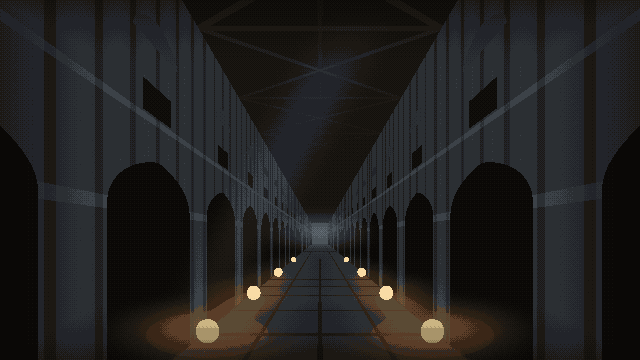
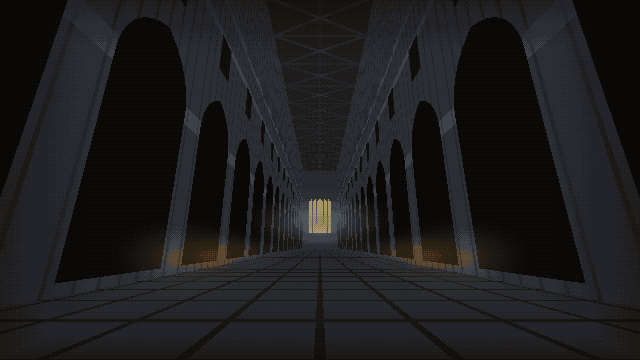
feat(art): match the reference camera 1:1 -- a real pitched ultra-wide (TD-072)
The angle was the gap, and it was not a tuning problem: my projection was strict
ONE-point, so verticals stayed vertical and the hall read as a corridor. The
reference is THREE-point -- the camera is tilted up, so the piers converge toward
the top of frame. That convergence is what makes the space soar.

Recovered the camera by measuring the reference rather than guessing: its nave
axis vanishes at ~0.68 of frame height, i.e. BELOW centre, which only happens
under an upward pitch. Solving for our 16:9 gives hfov ~105 degrees (a ~14mm
equivalent) at ~15 degrees of pitch.

Replaced the ad-hoc surface classifier with an actual camera: per-pixel ray
against the hall's planes (floor / vault / side walls / apse), in METRES at
Chartres' proportions -- 16m wide, 37m to the vault, 7m bays, eye at 1.5m. The
storeys now sit where a real elevation puts them and the perspective follows for
free. The model also predicts the reference's composition: near piers fill the
sides and top corners, and the vault only enters frame from ~28m in.

Also fixed a unit bug the rebuild exposed: inverse depth was being used directly
as a frame fraction, so a 5m light pool drew 50px wide. World size at depth needs
dividing by the FOV term.

Three reverts recorded so they are not retried: the drawn flame is GONE for good
(box, cone, ball, box again -- at a few px it reads as whatever shape you give
it, so the pool of light on the flags carries it, as the board's sconces do);
[…]

diff --git a/client/assets/ui/gen_nave.py b/client/assets/ui/gen_nave.py
@@ -16,9 +16,15 @@ image — a title screen showing an Incarnate would leak the mystery the whole g
 (Pillar 3), and combat imagery would advertise the failure state. The reference's chairs are
 not reproduced: they clutter the frame and date the space.
 
-Geometry is a real one-point projection, not a painted fake: every pixel is ray-cast from the
-vanishing point onto floor / vault / side wall, carrying a depth `z` and a surface coordinate,
-so bays, ribs and flags all converge from the same arithmetic.
+Geometry is a real CAMERA, not a painted fake: an ultra-wide lens (hfov 105°, a ~14mm
+equivalent) at floor height, tilted UP 15°, ray-cast per pixel against the hall's planes. The
+tilt is the point — it makes verticals CONVERGE toward the top of frame (three-point
+perspective), which is what turns a corridor into a soaring space. The camera was recovered
+from the reference by measuring where its nave axis vanishes: at ≈0.68 of frame height, i.e.
+BELOW centre, which only happens when the camera is pitched up.
+
+Everything is in metres, at Chartres' proportions (16m wide, 37m to the vault), so the
+storeys sit where a real elevation puts them and the perspective follows for free.
 
 Run from client/assets/ui/:  python3 gen_nave.py  ->  title/nave.png
 """
@@ -29,87 +35,124 @@ import ashember as A
 
 W, H = 640, 360
 
-# ── The camera (R238) ────────────────────────────────────────────────────────
-# The vanishing point sits LOW, so the viewer looks UP the vault and it owns the frame's
-# upper half. At eye level the same geometry is merely a corridor.
-VPX, VPY = 0.5, 0.66
-HALF_W = 0.235            # hall half-width at the near plane
-UP = 0.72                 # vault height above the vanishing line, at the near plane
-DOWN = 0.34               # floor depth below it
-# Height/width ≈ 2.3 : tall and narrow, which is what makes stone read as drawn upward.
+# ── The camera, recovered from the reference (R238) ──────────────────────────
+HFOV = math.radians(105.0)        # ultra-wide: near piers fill the frame's sides and corners
+PITCH = math.radians(15.0)        # tilted UP — this is what converges the verticals
+EYE_Y = 1.5                       # standing on the flags, not floating
+TAN_H = math.tan(HFOV * 0.5)
+TAN_V = TAN_H / (W / H)
+SINP, COSP = math.sin(PITCH), math.cos(PITCH)
 
-BAY = 0.62                # bay length in half-widths — the arcade's rhythm
-K_LANCET = 0.55           # two-centred arch: a lancet, not a wide Tudor arch
+# ── The hall, in metres (Chartres' proportions) ──────────────────────────────
+HALF_W = 8.0                      # 16m across the nave
+VAULT_Y = 37.0                    # …and 37m to the vault: a height/width of 2.3
+Z_FAR = 115.0                     # the apse closes the view
+BAY = 7.0                         # bay length — the arcade's rhythm
 
-H_FLOOR = DOWN / HALF_W           # wall height coordinate at the floor  (+1.45)
-H_VAULT = -UP / HALF_W            # …and at the vault springing          (-3.06)
+# ── The three storeys, in metres up the wall ─────────────────────────────────
+ARC_SPRING, ARC_HALF = 9.0, 2.55        # main arcade (apex ≈ 12.7m)
+TRI_LO, TRI_HI, TRI_HALF = 15.2, 18.4, 0.95   # triforium band
+CLR_SPRING, CLR_HALF = 22.0, 2.10       # clerestory, the glazed storey (apex ≈ 25.0m)
+PIER_HALF = 1.75                        # half the solid pier between openings
 
+K_LANCET = 0.55                   # two-centred arch: a lancet, not a wide Tudor arch
 BLACK = (7, 6, 8)
 
 
 def lancet(dp, half, springing):
-    """Head height of a two-centred pointed arch at |dp| from the opening's centre.
+    """Apex height of a two-centred pointed arch at |dp| from the opening's centre, in metres.
 
-    Each half is an arc struck from the OPPOSITE springing point, so the two meet at an apex
-    instead of closing as a semicircle. Height is negative-upward, like `h` below.
+    Each half is an arc struck from the OPPOSITE springing point, so the two meet at a point
+    instead of closing as a semicircle.
     """
     r = half * (1.0 + K_LANCET)
     dx = dp + half * K_LANCET
-    return springing - math.sqrt(max(0.0, r * r - dx * dx))
+    return springing + math.sqrt(max(0.0, r * r - dx * dx))
 
 
-# ── The three storeys, in wall-height units (negative is up) ─────────────────
-ARC_SPRING, ARC_HALF = -0.30, 0.36              # main arcade
-TRI_LO, TRI_HI, TRI_HALF = -1.30, -1.62, 0.13   # triforium band
-CLR_SPRING, CLR_HALF = -2.05, 0.20              # clerestory (the glazed storey)
-
-# ── Fire (R236). Braziers stand in the aisles at bay intervals: the KEY light. ──
-BRAZIERS = [(side * 0.86, z) for z in (1.15, 1.95, 3.1, 4.9) for side in (-1, 1)]
+def ray(fx, fy):
+    """World-space direction for a pixel, through the pitched ultra-wide camera."""
+    sx = (fx - 0.5) * 2.0 * TAN_H
+    sy = (0.5 - fy) * 2.0 * TAN_V
+    return (sx, sy * COSP + SINP, -sy * SINP + COSP)
 
 
-def _braziers_screen():
-    """Project each brazier to screen space once, with a perspective radius and intensity."""
-    out = []
-    for cross, z in BRAZIERS:
-        fx = VPX + cross * HALF_W / z
-        fy = VPY + (H_FLOOR - 0.12) * HALF_W / z
-        rad = 0.30 * HALF_W / z            # nearer flames pool wider
-        inten = min(1.0, 0.55 / (z * 0.55))
-        out.append((fx, fy, rad, inten))
-    return out
+def project(px, py, pz):
+    """World point -> (fx, fy, inv_depth), or None behind the camera. Used to place fires."""
+    ry_, rz = py - EYE_Y, pz
+    df = ry_ * SINP + rz * COSP
+    if df <= 0.05:
+        return None
+    du = ry_ * COSP - rz * SINP
+    return (0.5 + px / df / (2.0 * TAN_H), 0.5 - du / df / (2.0 * TAN_V), 1.0 / df)
 
 
-BZ = _braziers_screen()
+def hit(fx, fy):
+    """Nearest plane the pixel's ray strikes: ("floor"|"vault"|"wall"|"apse", a, b, dist).
+
+    `a` runs down the hall (metres), `b` is across the surface — cross-hall on floor/vault,
+    height up the wall on a wall.
+    """
+    dx, dy, dz = ray(fx, fy)
+    best = None
+    if dy < -1e-6:                                   # floor, y = 0
+        t = -EYE_Y / dy
+        if t > 0:
+            best = (t, "floor")
+    if dy > 1e-6:                                    # vault, y = VAULT_Y
+        t = (VAULT_Y - EYE_Y) / dy
+        if t > 0 and (best is None or t < best[0]):
+            best = (t, "vault")
+    if abs(dx) > 1e-6:                               # side walls, x = ±HALF_W
+        t = (math.copysign(HALF_W, dx)) / dx
+        if t > 0 and (best is None or t < best[0]):
+            best = (t, "wall")
+    if dz > 1e-6:                                    # the apse closes the far end
+        t = Z_FAR / dz
+        if t > 0 and (best is None or t < best[0]):
+            best = (t, "apse")
+    if best is None:
+        return ("apse", 0.0, 0.0, Z_FAR)
+    t, kind = best
+    wx, wy, wz = dx * t, EYE_Y + dy * t, dz * t
+    if kind == "floor" or kind == "vault":
+        return (kind, wz, wx, wz)
+    if kind == "wall":
+        return (kind, wz, wy, wz)
+    return (kind, wy, wx, wz)
+
+
+# ── Fire (R236). Braziers stand along the aisles: the KEY light. ─────────────
+BRAZIERS = [(side * (HALF_W - 1.1), 0.9, z)
+            for z in (13.0, 20.0, 30.0, 45.0, 66.0) for side in (-1, 1)]
+BZ = [(pr[0], pr[1], pr[2]) for pr in
+      (project(bx, by, bz) for bx, by, bz in BRAZIERS) if pr is not None]
 
 
 def _firelight(fx, fy):
-    """Summed warm falloff from every brazier. This is the image's key light."""
+    """Summed warm falloff from every brazier — the image's key light."""
     tot = 0.0
-    for bx, by, rad, inten in BZ:
-        dx = (fx - bx) / (rad * 3.2)
-        dy = (fy - by) / (rad * 2.1)       # pools wider than tall: light lying on flags
-        d2 = dx * dx + dy * dy
+    for bx, by, inv in BZ:
+        rx_ = 4.0 * inv / (2.0 * TAN_H)                  # a real 4m pool, in perspective
+        ry_ = 2.2 * inv / (2.0 * TAN_V)                  # pools wider than tall on the flags
+        dxs = (fx - bx) / max(rx_, 1e-5)
+        dys = (fy - by) / max(ry_, 1e-5)
+        d2 = dxs * dxs + dys * dys
         if d2 < 1.0:
-            tot += inten * (1.0 - d2) ** 2
-    return min(1.35, tot)
+            tot += min(0.85, inv * 6.0) * (1.0 - d2) ** 2
+    return min(1.4, tot)
 
 
-def _farglow(fx, fy):
-    """The hall's far end. Depth reads as LUMINANCE (TD-072): the near is darkest and the
-    distance opens into light, so near piers fall to silhouette against it."""
-    dx = (fx - VPX) / 0.115
-    dy = (fy - VPY + 0.015) / 0.085
-    return max(0.0, 1.0 - A.smooth(0.0, 1.0, math.sqrt(dx * dx + dy * dy))) ** 1.5
-
-
-def _shaft(fx, fy):
-    """The cold counterpoint (TD-043) — a pale shaft through a high clerestory lancet. Dimmer
-    than the fire and no longer the source of the image."""
-    cx = 0.335 + 0.30 * (0.80 - fy)
-    d = abs(fx - cx) / 0.085
-    if d >= 1.0:
+def _apseglow(fx, fy):
+    """The lit east end. Depth reads as LUMINANCE: the near is darkest and the distance opens
+    into light, so the near piers fall to silhouette against it."""
+    pr = project(0.0, 12.0, Z_FAR - 2.0)
+    if pr is None:
         return 0.0
-    return (1.0 - d * d) ** 2.4 * A.smooth(0.0, 0.26, fy) * (1.0 - 0.6 * A.smooth(0.5, 0.95, fy))
+    ax, ay, _ = pr
+    dxs = (fx - ax) / 0.135
+    dys = (fy - ay) / 0.105
+    return max(0.0, 1.0 - A.smooth(0.0, 1.0, math.sqrt(dxs * dxs + dys * dys))) ** 1.4
 
 
 _DITHER = ((0, 8, 2, 10), (12, 4, 14, 6), (3, 11, 1, 9), (15, 7, 13, 5))
@@ -123,105 +166,79 @@ def _dither(base, x, y):
 
 def nave_px(x, y):
     fx, fy = (x + 0.5) / W, (y + 0.5) / H
-    u, v = fx - VPX, fy - VPY
-    rx = abs(u) / HALF_W
-    ry = (v / DOWN) if v >= 0 else (-v / UP)
+    kind, a, b, dist = hit(fx, fy)
+    near = min(1.0, 14.0 / max(dist, 1.0))               # 1 close, → 0 far
 
-    if max(rx, ry) < 0.055:
-        # The far end: not a wall, an opening full of light.
-        base = A.ramp_shade("stone", 0.55)
-    elif rx >= ry:
-        # ── Side wall: compound piers and three storeys of pointed openings ──
-        au = max(abs(u), 1e-5)
-        z = HALF_W / au                             # depth
-        h = v / au                                  # wall height, negative-upward
-        p = (z / BAY) % 1.0
-        dp = abs(p - 0.5)
-        base = A.ramp_shade("stone", 0.10 + 0.16 * min(1.0, 1.4 / z))
-
-        arc_head = lancet(dp, ARC_HALF, ARC_SPRING) if dp < ARC_HALF else 0.0
-        clr_head = lancet(dp, CLR_HALF, CLR_SPRING) if dp < CLR_HALF else 0.0
-        in_arcade = dp < ARC_HALF and arc_head < h < H_FLOOR
-        in_clere = dp < CLR_HALF and clr_head < h < CLR_SPRING
-        in_trif = dp < TRI_HALF and TRI_HI < h < TRI_LO
-
-        if in_arcade:
-            # Through into the dark side aisle — the deepest value in the image.
-            base = A.lerp_rgb(BLACK, A.RAMP["stone"][0], 0.10 * min(1.0, 1.6 / z))
-        elif in_clere:
-            # Glazing. Jewelled from ramps already in hand (R235): no foreign palette.
-            mull = abs(((dp / (CLR_HALF * 0.5)) % 1.0) - 0.5)   # stone mullions divide the light
-            lit = min(1.0, 1.5 / z)
-            base = A.lerp_rgb(BLACK, A.RAMP["stone"][3], 0.30 + 0.22 * lit)
+    if kind == "apse":
+        base = A.ramp_shade("stone", 0.16)
+        light = abs(b) < 5.4 and 7.0 < a < lancet(abs(b) % 1.8, 0.9, 22.0)
+        if light:
+            mull = abs((abs(b) / 1.8) % 1.0 - 0.5)
+            base = A.lerp_rgb(A.RAMP["stone"][3], A.RAMP["parchment"][3], 0.55)
             if mull > 0.40:
-                base = A.over(base, A.RAMP["stone"][1], 0.60)
-        elif in_trif:
-            base = A.lerp_rgb(BLACK, A.RAMP["stone"][0], 0.22)
-        else:
-            # Pier face. Quantised into colonnettes, each shaded as a half-round: this is what
-            # turns a flat wall into a BUNDLE OF SHAFTS, which is the whole Gothic read.
-            shafts = 5.0
-            sp = (dp * shafts) % 1.0
-            round_ = math.sin(sp * math.pi)                 # half-cylinder across each shaft
-            base = A.over(base, A.RAMP["stone"][2], 0.34 * round_)
-            if sp < 0.10 or sp > 0.90:
-                base = A.over(base, BLACK, 0.42)            # the seam between shafts
-            # Capitals at the arcade springing, and a string-course under the clerestory.
-            if abs(h - ARC_SPRING) < 0.055 or abs(h - (TRI_LO + 0.06)) < 0.035:
-                base = A.over(base, A.RAMP["stone"][3], 0.45)
-            base = A.over(base, A.RAMP["stone"][0], 0.05 * (A.noise(x, y // 3, 7) + 8) / 16.0)
-    elif v >= 0:
-        # ── Floor: worn flags, courses across the hall, joints running away ──
-        z = DOWN / max(v, 1e-5)
-        cross = u / max(v, 1e-5) * DOWN / HALF_W
-        base = A.ramp_shade("stone", 0.07 + 0.10 * min(1.0, 1.5 / z))
-        if abs(((z / 0.42) % 1.0) - 0.5) > 0.455 or abs(((cross / 0.5) % 1.0) - 0.5) > 0.462:
-            base = A.over(base, BLACK, 0.55)
+                base = A.over(base, A.RAMP["stone"][0], 0.75)     # the stone between lights
+    elif kind == "floor":
+        base = A.ramp_shade("stone", 0.06 + 0.10 * near)
+        if abs(((a / 1.9) % 1.0) - 0.5) > 0.455 or abs(((b / 1.9) % 1.0) - 0.5) > 0.455:
+            base = A.over(base, BLACK, 0.55)             # flag joints
         else:
             base = A.over(base, A.RAMP["stone"][0], 0.05 * (A.noise(x // 2, y // 2, 11) + 8) / 16.0)
+    elif kind == "vault":
+        # Ribbed quadripartite bays: diagonals crossing at a boss, transverse ribs, sunk webs.
+        cross = b / HALF_W
+        loc = (a / BAY) % 1.0
+        base = A.ramp_shade("stone", 0.05 + 0.09 * near)
+        base = A.over(base, BLACK, 0.34)
+        rw = 0.085
+        diag = abs(abs(cross) - abs(2.0 * loc - 1.0))
+        if diag < rw or min(loc, 1.0 - loc) < rw * 0.45:
+            base = A.over(base, A.RAMP["stone"][2], 0.26)
+            if diag < rw * 0.5 and abs(loc - 0.5) < 0.10:
+                base = A.over(base, A.RAMP["stone"][3], 0.24)     # the boss
+        elif abs(cross) < rw * 0.4:
+            base = A.over(base, A.RAMP["stone"][1], 0.22)         # ridge rib
     else:
-        # ── Vault: ribbed quadripartite bays, bosses chaining away overhead ──
-        nv = max(-v, 1e-5)
-        z = UP / nv
-        cross = u / nv * UP / HALF_W                # -1..1 across the vault
-        a = (z / BAY) % 1.0
-        base = A.ramp_shade("stone", 0.05 + 0.09 * min(1.0, 1.3 / z))
-        diag = abs(abs(cross) - abs(2.0 * a - 1.0))     # the crossing diagonals
-        trans = min(a, 1.0 - a)                          # the bay division
-        ridge = abs(cross)
-        rw = 0.030 + 0.030 / max(1.0, z)                 # ribs thin with distance
-        fade = max(0.0, min(1.0, 1.9 / z - 0.55))        # ribs resolve near, then the dark takes it
-        base = A.over(base, BLACK, 0.62)                 # webs sit deep — this is a dark ceiling
-        if diag < rw or trans < rw * 0.5:
-            base = A.over(base, A.RAMP["stone"][2], 0.30 * fade)   # rib, catching a little light
-            if diag < rw * 0.5 and abs(a - 0.5) < 0.08:
-                base = A.over(base, A.RAMP["stone"][3], 0.28 * fade)   # the boss where they cross
-        elif ridge < rw * 0.35:
-            base = A.over(base, A.RAMP["stone"][1], 0.22 * fade)   # ridge rib, quiet
+        # ── Side wall: compound piers, three storeys of pointed openings ──
+        h = b                                            # metres up the wall
+        loc = (a / BAY) % 1.0
+        dp = abs(loc - 0.5) * BAY                        # metres from the bay's centre
+        base = A.ramp_shade("stone", 0.10 + 0.15 * near)
+        in_arc = dp < ARC_HALF and ARC_SPRING is not None and h < lancet(dp, ARC_HALF, ARC_SPRING)
+        in_clr = dp < CLR_HALF and CLR_SPRING < h < lancet(dp, CLR_HALF, CLR_SPRING)
+        in_tri = dp < TRI_HALF and TRI_LO < h < TRI_HI
+        if in_arc and h > 0.4:
+            base = A.lerp_rgb(BLACK, A.RAMP["stone"][0], 0.10 * near)   # into the dark aisle
+        elif in_clr:
+            mull = abs(((dp / (CLR_HALF * 0.42)) % 1.0) - 0.5)
+            base = A.lerp_rgb(BLACK, A.RAMP["stone"][3], 0.34 + 0.26 * near)
+            if mull > 0.40:
+                base = A.over(base, A.RAMP["stone"][1], 0.60)           # mullions
+        elif in_tri:
+            base = A.lerp_rgb(BLACK, A.RAMP["stone"][0], 0.24)
+        else:
+            # Pier face quantised into colonnettes, each shaded as a half-round: a flat wall
+            # becomes a BUNDLE OF SHAFTS, which is the whole Gothic read.
+            sp = (dp / 0.95) % 1.0
+            base = A.over(base, A.RAMP["stone"][2], 0.20 * math.sin(sp * math.pi))
+            if sp < 0.07 or sp > 0.93:
+                base = A.over(base, BLACK, 0.26)                         # seam between shafts
+            if abs(h - ARC_SPRING) < 0.55 or abs(h - TRI_HI) < 0.35 or abs(h - CLR_SPRING) < 0.40:
+                base = A.over(base, A.RAMP["stone"][3], 0.42)            # capitals, string-course
+            base = A.over(base, A.RAMP["stone"][0], 0.05 * (A.noise(x, y // 3, 7) + 8) / 16.0)
 
-    # ── Light. Fire is the key; the far end opens; the shaft is the cold accent. ──
+    # ── Light: fire is the key, the apse opens the distance. ──
+    glow = _apseglow(fx, fy)
+    base = A.over(base, A.lerp_rgb(A.RAMP["stone"][3], A.RAMP["parchment"][2], 0.40),
+                  min(0.66, glow * 0.66))
     fire = _firelight(fx, fy)
-    far = _farglow(fx, fy)
-    cold = _shaft(fx, fy)
-
-    base = A.over(base, A.lerp_rgb(A.RAMP["stone"][3], A.RAMP["parchment"][2], 0.35),
-                  min(0.62, far * 0.62))
-    if cold > 0.0:
-        base = A.over(base, A.RAMP["stone"][4], min(0.20, cold * 0.20))
     if fire > 0.0:
-        warm = A.RAMP["flame"][1] if fire > 0.5 else A.RAMP["gold"][2]
-        base = A.over(base, warm, min(0.72, fire * 0.55))
-    # The flames themselves, drawn last so nothing washes them out.
-    for bx, by, rad, inten in BZ:
-        dx = (fx - bx) / max(rad * 0.30, 1e-5)
-        dy = (fy - by + rad * 0.18) / max(rad * 0.55, 1e-5)
-        if dx * dx + dy * dy < 1.0:
-            base = A.FLAME_PALE
+        warm = A.RAMP["flame"][1] if fire > 0.55 else A.RAMP["gold"][2]
+        base = A.over(base, warm, min(0.58, fire * 0.44))
 
     v_ = max(abs(fx - 0.5) / 0.5, abs(fy - 0.5) / 0.5)
-    base = A.lerp_rgb(base, BLACK, 0.60 * A.smooth(0.60, 1.08, v_))
-    r, g, b = A.quantize(_dither(base, x, y))
-    return (r, g, b, 255)
+    base = A.lerp_rgb(base, BLACK, 0.55 * A.smooth(0.62, 1.10, v_))
+    r, g, b_ = A.quantize(_dither(base, x, y))
+    return (r, g, b_, 255)
 
 
 if __name__ == "__main__":
